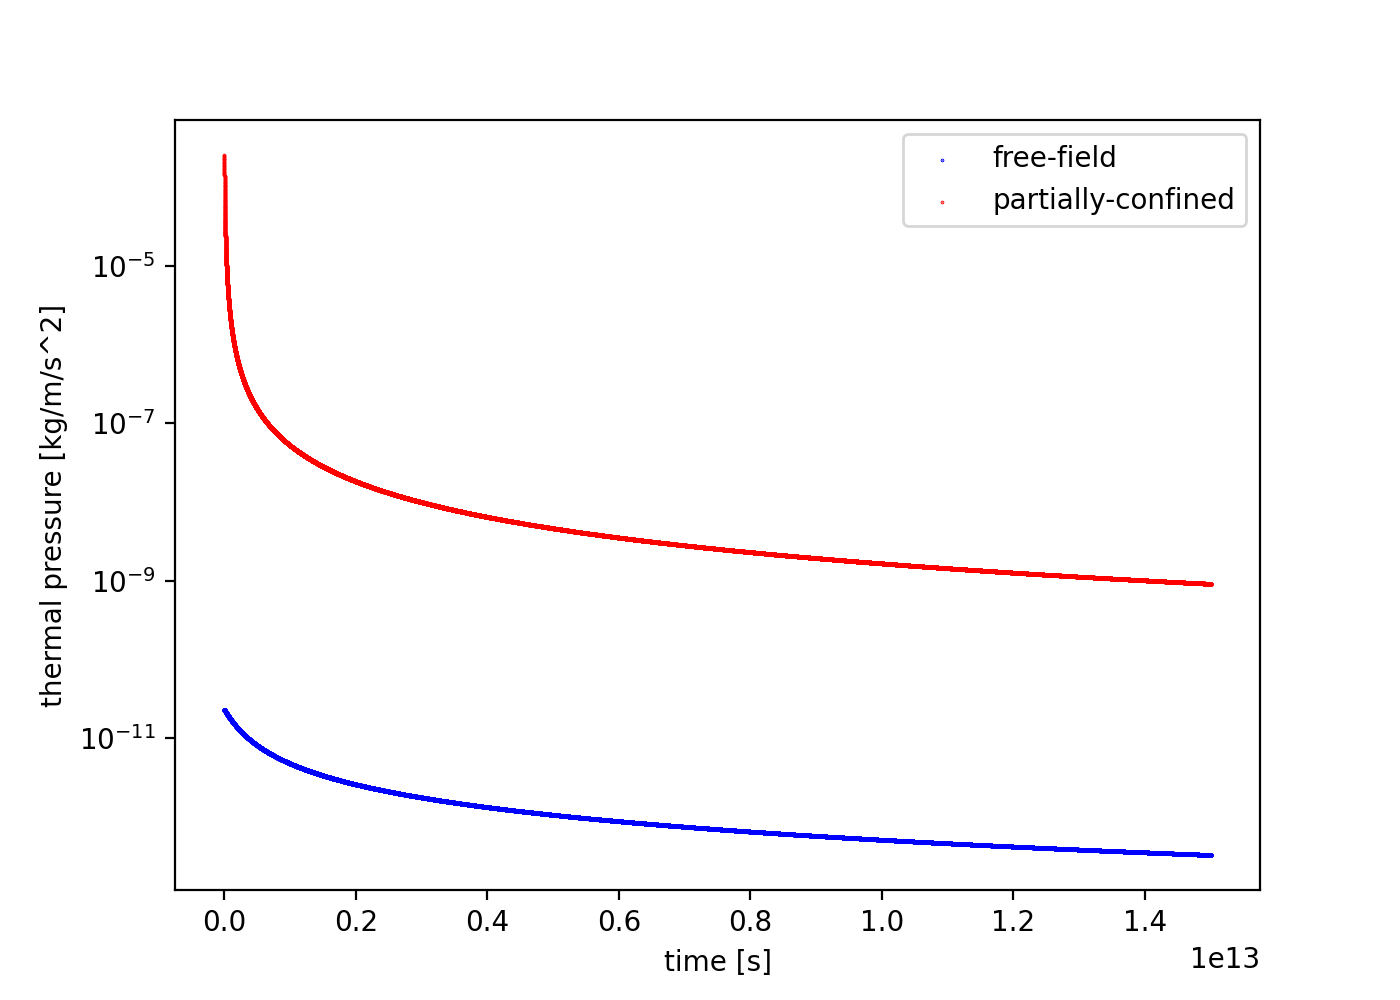
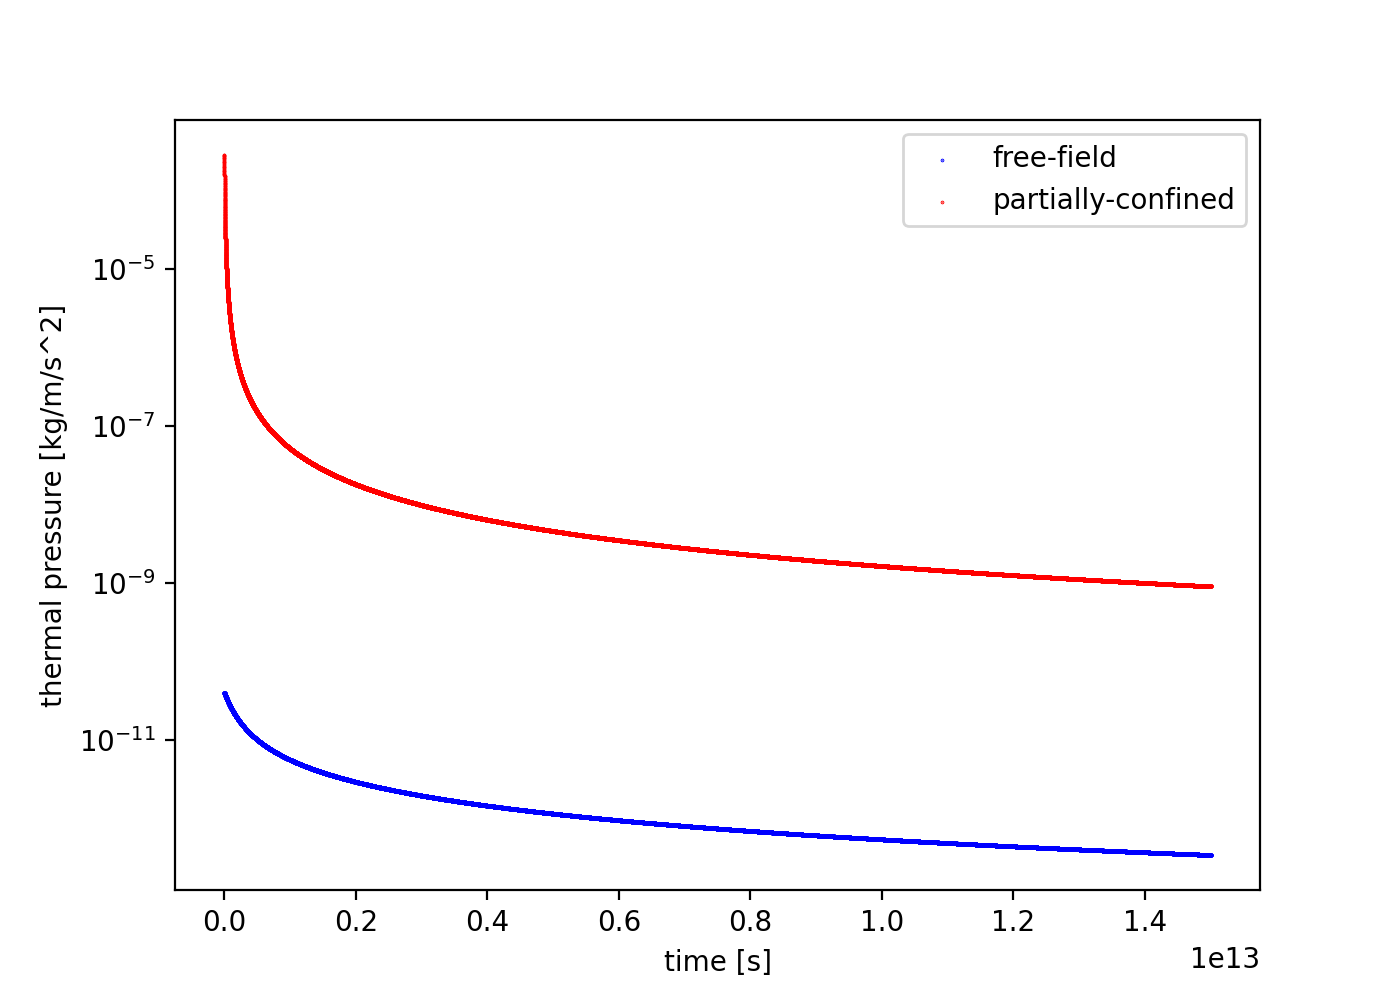
Changed setting

diff --git a/python_scripts/analytical_models/freefield_vented_sn_model.py b/python_scripts/analytical_models/freefield_vented_sn_model.py
@@ -20,7 +20,7 @@ G = 6.67e-11                    # gravitational constant
 t_end = 1.5E13                  # sim end time 
 dt = 1E8                        # timestep 
 
-r_detect = 30. *3.086e+16       # location of detector 
+r_detect = 25. *3.086e+16       # location of detector 
 
 r_sn = 0.1 *3.086e+16           # SN ejecta radius 
 E_sn = 0.7*1e51 *1e-7           # SN energy 
@@ -33,15 +33,23 @@ p_cloud = 6.36e-13 *1e-1        # pressure of cloud around HII region/cavity
 
 r_stag = 10. *3.086e+16         # HII region stagnation radius 
 p_hii = p_cloud * 10**(-3*gamma/(1-gamma))          # pressure of HII region from adiabatic relations 
-rho_hii = rho_cloud * (p_cloud/p_hii)**(1/gamma)    # density of HII region from adiabatic relations 
+rho_hii = rho_cloud * (p_hii/p_cloud) * 10**(-3)    # density of HII region from ideal gas law  
+# rho_hii = 3.16e-17 *1e+3  
+# p_hii = 2.01e-05 *1e-1
+rho_hii = 1e-19 *1e+3
+p_hii = 6.41e-8 *1e-1
 
 rho_inshell = 1.5e-19           # density within swept-up shell 
 dr_inshell = 2.0 *3.086e+16     # thickness of shell 
 
 rho_env = 4e-25 *1e+3           # density of envelope 
 p_env = 2.54e-14 *1e-1          # pressure of envelope 
+#rho_env = 3e-24 *1e+3           # density of envelope 
+#p_env = 8.86e-15 *1e-1          # pressure of envelope 
 
-omega = 4*np.pi*0.1             # solid angle of channell in Sr
+omega = 4*np.pi*0.2             # solid angle of channell in Sr
+expand_sout = False
+
 
 # NOTE: p - thermal pressure; ramp - ram pressure 
 #       if assuming SN energy is completely thermalized by the time it reaches the shell,
@@ -57,7 +65,7 @@ omega = 4*np.pi*0.1             # solid angle of channell in Sr
 def free_field_sn(ax1,ax2,ax3):
 
     place_in_HIIregion = False
-    place_in_cloud = True 
+    place_in_cloud = True
 
     s_out = omega*r_detect**2   # to compare with confined case 
     
@@ -97,8 +105,8 @@ def free_field_sn(ax1,ax2,ax3):
         
         # Properties immediately behind shock according to Sedov equations
         v_shell = 2/5 * (1.17)**(5/2) * (E_sn/rho_env)**(1/2) * r_shell**(-3/2)
-        p_shell = 4/25 * (1.17)**5 * E_sn * r_shell**(-3)
-        rho_shell = (1.17/r_shell)**5 * E_sn * t**2
+#        p_shell = 3/25 * (1.17)**5 * E_sn * r_shell**(-3)
+#        rho_shell = (1.17/r_shell)**5 * E_sn * t**2
         cs = np.sqrt(gamma*p_env/rho_env)
         mach = v_shell/cs
         
@@ -213,11 +221,11 @@ def part_confined_sn(with_HII,expand_cav,ax1,ax2,ax3):
         # Update mass contained within cavity 
         dmdt = rho_vent * v_out * s_out 
         m_cav = m_cav - dmdt*dt 
-        
+
         if (expand_cav):
             m_shellpswept = m_inshell * (M_i/m_inshell*(r_cav**3/r_cavi**3-1) + 1)           # shell mass + swept-up mass
             dvdt_cav = (1/m_shellpswept) * 4*np.pi*r_cav**2 * (p_cav - rho_cloud*vel_cav**2) # shell EOM
-            dvdt_cav = dvdt_cav - 4/3*np.pi*G*r_cav*rho_vent                                 # take gravity into account
+            #dvdt_cav = dvdt_cav - 4/3*np.pi*G*r_cav*rho_vent                                 # take gravity into account
             # Update cavity radius 
             vel_cav = vel_cav + dvdt_cav*dt 
             r_cav = r_cav + vel_cav*dt 
@@ -233,6 +241,9 @@ def part_confined_sn(with_HII,expand_cav,ax1,ax2,ax3):
         e_box = m_box * e_mload 
         etot = etot + e_box 
         mtot = mtot + m_box 
+
+        if (expand_sout):
+            s_out = s_out*1.00001
 
         t = t + dt 
         time.append(t)
@@ -266,6 +277,7 @@ def part_confined_sn(with_HII,expand_cav,ax1,ax2,ax3):
         fig4 = plt.figure(figsize=[7,5])
         ax4 = fig4.add_subplot(111)
         ax4.scatter(time,r_cav_evol,s=0.1)
+        ax4.set_yscale('log')
         ax4.set_xlabel('time [s]')
         ax4.set_ylabel('cavity shell radius [m]')
 
